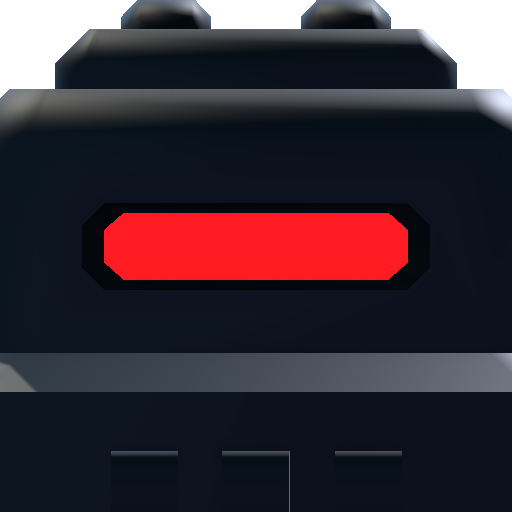
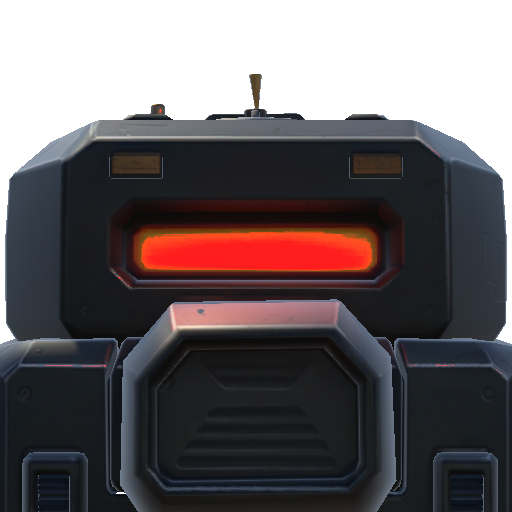
fix: 보스 체력 UI 거대보스 초상화를 현재 모델로 교체 - 김성준 - BossA_Front.png: 모델 교체(Virus_King_Boss) 전 머리로 남아 있던 초상화를 BossA 프리팹에서 원래 구도(정면, 머리 블록이 가로를 채움, 눈 띠 약간 위, 투명 배경 512×512)로 다시 촬영해 교체 - 파일과 GUID는 그대로라 Canvas_InGame 연결은 변경 없음 - 인수인계 기록과 UI 전후 비교 사진 추가

diff --git a/docs/HANDOVER/SungJun/HANDOFF_POINTER.md b/docs/HANDOVER/SungJun/HANDOFF_POINTER.md
@@ -5,6 +5,7 @@
 작업을 마무리할 때는 오늘 날짜 폴더에 새 문서를 만들고, 아래 목록 맨 위에 한 줄 항목을 추가한다.
 
 ## 변경 이력 (최신순)
+- **2026-11-01** — 보스 체력 UI 거대보스 초상화(`BossA_Front.png`)가 모델 교체 전 머리로 남아 있어, 지금 Virus_King_Boss 모델을 원래 구도(정면·머리 블록 가득·눈 띠 약간 위·투명 배경 512)로 다시 찍어 교체. UI 연결 수정 없음, 보스전 화면 미확인: [작업 기록](./2026-11-01/boss-portrait-retake.md)
 - **2026-11-01** — 보스A 스캔 시 에너지 실드 구체까지 홀로그램으로 보이던 문제 수정: `SilhouetteReaction._shellExcludeRoots` 추가(셸 자동 생성에서 제외), `BossA.prefab` 에 `EnergyShield` 연결. 컴파일 오류 0(dotnet build), TestScene Play 비교 캡처 + Play 중 보스맵 런타임 로드로 실제 자리 보스 스캔 캡처 확인(씬 파일 변경 없음): [작업 기록](./2026-11-01/boss-scan-exclude-shield.md)
 - **2026-11-01** — 엔딩 크레딧 `ASSETS & SOURCES`에 "게임 제작 및 사용 에셋"(3D 아트·UI / 시각 효과 / 캐릭터 애니메이션 Mixamo / 음악·효과음 / 폰트)을 컷신 묶음 앞에 같은 형식으로 추가, Third-Party Notices 고지 줄은 두 묶음 뒤. `Map_5_Live` `m_text`만 YAML 수정(씬 안 엶). 실제 엔딩 미확인, 커밋 안 함: [작업 기록](./2026-11-01/ending-credits-game-assets.md)
 - **2026-11-01** — intent-116: 메인 메뉴로 돌아갈 때도 로딩씬을 거쳐 달리는 플레이어 화면 + "메인 메뉴로 가는 중..." 표시(`SceneLoader.IsMainMenuPending`, `LoadingStageView.ShowMainMenu`). 오프닝은 영상 뒤 튜토리얼 불러오기 + 메인 버튼 + 검은 배경. 후속: 로딩 컷씬 설정창 메인 화면도 달리는 화면, 최소 로딩 시간 5→4초(Play 미확인). TestScene Play로 확인, 실제 게임 흐름 미확인, 커밋 안 함: [작업 기록](./2026-11-01/main-menu-loading-screen.md)

diff --git a/docs/HANDOVER/SungJun/2026-11-01/boss-portrait-retake.md b/docs/HANDOVER/SungJun/2026-11-01/boss-portrait-retake.md
@@ -1,0 +1,19 @@
+# 보스 체력 UI 거대보스(보스A) 초상화 다시 찍기
+
+## 1. 작업 요약 및 방법
+- 문제: 보스 체력 UI 초상화 `Art/UI/BossPortraits/BossA_Front.png` 는 2026-10-30 `57935ac4` 에서 찍었는데, 같은 날 `e4ed2747` 에서 보스A 모델이 Virus_King_Boss 로 바뀌어 예전 머리(빨간 눈 띠 사각형)가 남아 있었다.
+- 원래 사진과 같은 구도로 지금 모델을 다시 찍어 같은 파일에 덮어썼다(`.meta`·GUID 유지, `Canvas_InGame` 연결 수정 없음).
+  - TestScene Play 에서 `BossA.prefab` 을 빈 공간(y=-3000)에 회전 없이 만들고, `SetDamageMode(All)` 로 실드를 끈 채 촬영.
+  - 정면(+Z 쪽에서 -Z 를 봄), 카메라 거리 40m(몸 앞면 z=10 기준), 세로 범위 9.8m(FOV 약 14°), 조준 높이 y=19.04 → 머리 블록이 가로를 거의 채우고 빨간 눈 띠가 가운데보다 조금 위(약 245px).
+  - 512×512, 배경 투명(SolidColor 알파 0, 원래 파일과 같음).
+- 얼굴을 더 꽉 채운 촬영본(세로 범위 5.6m)도 만들어 봤으나, 사용자가 위 구도(9.8m)를 골라 그대로 쓴다.
+- 비교 확인: `Canvas_InGame` 을 저장 없이 불러와(`LoadPrefabContents` → `UnloadPrefabContents`) 체력 UI 를 예전/새 초상화로 각각 렌더: [비교 사진](./images/boss-portrait-compare.png)
+
+## 2. 결정 사항
+- 초상화는 원래 방식대로 정적 Sprite 를 쓰고 파일만 교체한다.
+
+## 3. 현재 상태 및 이슈
+- 비교 사진은 프리팹 기본 상태라 위쪽 큰 바가 B, 아래쪽 작은 바가 A 로 보이고 이름 칸도 프리팹 기본 문구다. 실제 보스전에서 A 가 큰 바로 보일 때의 모습은 확인하지 않았다.
+
+## 4. 다음 할 일 (Next Steps)
+- 보스전에서 체력바 초상화가 자연스러운지 확인.
